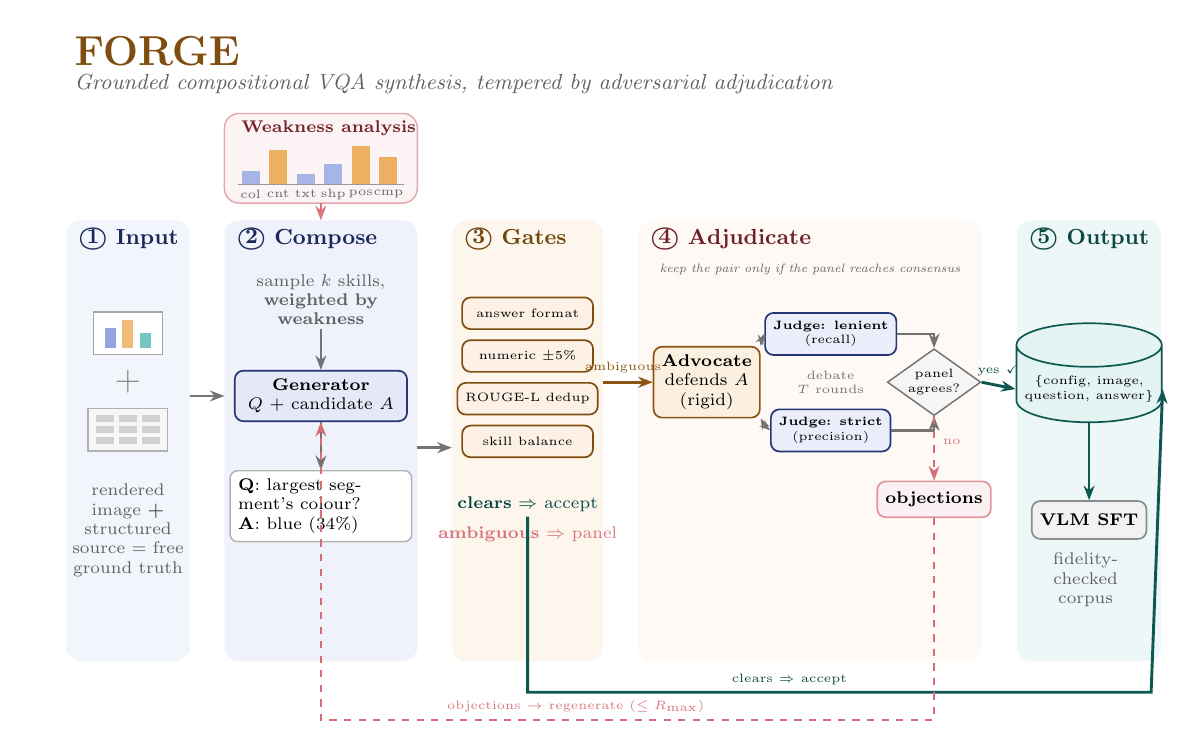
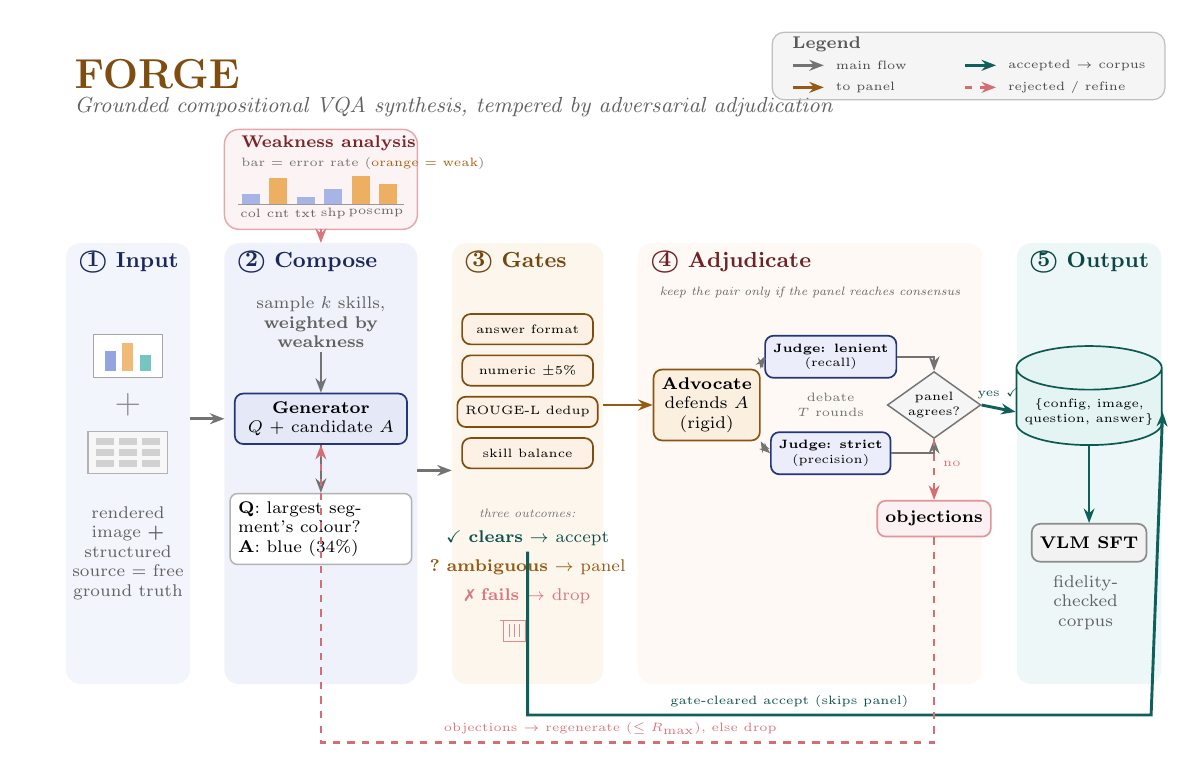
Improve FORGE figure: legend, explicit gate outcomes, cleaner adjudicate, weakness module

diff --git a/forge/docs/forge_pipeline.tex b/forge/docs/forge_pipeline.tex
@@ -2,6 +2,7 @@
 \usepackage{tikz}
 \usepackage{amsmath}
 \usepackage{amssymb}
+\usepackage{pifont}
 \usetikzlibrary{arrows.meta,positioning,backgrounds,calc,shapes.geometric}
 \begin{document}
 \definecolor{ta}{RGB}{60,90,200}
@@ -16,8 +17,8 @@
   box/.style={draw, rounded corners=3.5pt, line width=0.7pt, align=center, font=\scriptsize},
   jbox/.style={draw, rounded corners=3.5pt, line width=0.7pt, align=center, font=\tiny},
   arr/.style={-{Stealth[length=6pt]}, line width=1.2pt, color=black!55},
-  garr/.style={-{Stealth[length=6pt]}, line width=1.2pt, color=tc!55!black},
-  aarr/.style={-{Stealth[length=6pt]}, line width=1.2pt, color=tb!60!black},
+  garr/.style={-{Stealth[length=6pt]}, line width=1.2pt, color=tc!60!black},
+  aarr/.style={-{Stealth[length=6pt]}, line width=1.2pt, color=tb!65!black},
   rarr/.style={-{Stealth[length=6pt]}, line width=1pt, color=td!75, dashed},
   deb/.style={{Stealth[length=4.5pt]}-{Stealth[length=4.5pt]}, line width=0.8pt, color=black!55},
 ]
@@ -32,22 +33,36 @@
      \fill[black!18] (#1+0.11+\c*0.34,#2+0.10+\r*0.16) rectangle ++(0.26,0.10);}}}
 \newcommand{\panel}[5]{\begin{scope}[on background layer]
   \fill[#5,rounded corners=6pt] (#1,#2) rectangle (#3,#4);\end{scope}}
+\newcommand{\bin}[2]{% tiny discard bin at x,y (0.34 x 0.34)
+  \draw[td!60,line width=0.6pt] (#1,#2) -- (#1,#2-0.30) -- (#1+0.32,#2-0.30) -- (#1+0.32,#2);
+  \draw[td!60,line width=0.6pt] (#1-0.05,#2) -- (#1+0.37,#2);
+  \foreach \k in {0.09,0.16,0.23}{\draw[td!60,line width=0.4pt] (#1+\k,#2-0.05)--(#1+\k,#2-0.24);}}
 
 % ===== title =====
 \node[font=\LARGE\bfseries,text=tb!55!black,anchor=west] at (0,9.35) {FORGE};
 \node[font=\small\itshape,text=black!62,anchor=west] at (0,8.88)
   {Grounded compositional VQA synthesis, tempered by adversarial adjudication};
 
+% ===== legend (top-right, above the subtitle) =====
+\begin{scope}[on background layer]\fill[black!4,rounded corners=5pt] (10.25,8.98) rectangle (15.95,9.96);\end{scope}
+\draw[black!25,rounded corners=5pt,line width=0.5pt] (10.25,8.98) rectangle (15.95,9.96);
+\node[font=\scriptsize\bfseries,text=black!65,anchor=west] at (10.42,9.78){Legend};
+\draw[arr,line width=1pt] (10.55,9.48)--(11.0,9.48); \node[font=\tiny,anchor=west,text=black!70] at (11.05,9.48){main flow};
+\draw[aarr,line width=1pt] (10.55,9.16)--(11.0,9.16); \node[font=\tiny,anchor=west,text=black!70] at (11.05,9.16){to panel};
+\draw[garr,line width=1pt] (13.05,9.48)--(13.5,9.48); \node[font=\tiny,anchor=west,text=black!70] at (13.55,9.48){accepted $\to$ corpus};
+\draw[rarr,line width=1pt] (13.05,9.16)--(13.5,9.16); \node[font=\tiny,anchor=west,text=black!70] at (13.55,9.16){rejected / refine};
+
 % ===== separate WEAKNESS ANALYSIS module (feeds Compose) =====
-\begin{scope}[on background layer]\fill[td!6,rounded corners=6pt] (2.3,7.15) rectangle (5.1,8.45);\end{scope}
-\draw[td!45,rounded corners=6pt,line width=0.6pt] (2.3,7.15) rectangle (5.1,8.45);
-\node[font=\scriptsize\bfseries,text=td!60!black,anchor=west] at (2.42,8.24){Weakness analysis};
-\def\bx{2.55}\def\bby{7.42}
-\foreach \i/\h/\w/\lab in {0/0.20/0/col,1/0.50/1/cnt,2/0.15/0/txt,3/0.30/0/shp,4/0.56/1/pos,5/0.40/1/cmp}{
+\begin{scope}[on background layer]\fill[td!6,rounded corners=6pt] (2.3,7.10) rectangle (5.1,8.55);\end{scope}
+\draw[td!45,rounded corners=6pt,line width=0.6pt] (2.3,7.10) rectangle (5.1,8.55);
+\node[font=\scriptsize\bfseries,text=td!60!black,anchor=west] at (2.42,8.35){Weakness analysis};
+\node[font=\tiny,text=black!55,anchor=west] at (2.42,8.06){bar $=$ error rate (\textcolor{tb!70!black}{orange $=$ weak})};
+\def\bx{2.55}\def\bby{7.46}
+\foreach \i/\h/\w/\lab in {0/0.15/0/col,1/0.38/1/cnt,2/0.11/0/txt,3/0.23/0/shp,4/0.42/1/pos,5/0.30/1/cmp}{
   \pgfmathsetmacro\xx{\bx+\i*0.40}
   \ifnum\w=1 \fill[tb!70] (\xx,\bby) rectangle ++(0.26,\h);
   \else \fill[ta!45] (\xx,\bby) rectangle ++(0.26,\h);\fi
-  \node[font=\tiny,text=black!60] at (\xx+0.13,\bby-0.14){\lab};}
+  \node[font=\tiny,text=black!60] at (\xx+0.13,\bby-0.13){\lab};}
 \draw[black!40,line width=0.5pt] (\bx-0.05,\bby) -- (\bx+2.35,\bby);
 
 % ===== main pipeline panels =====
@@ -62,8 +77,8 @@
 \node[bt,text=td!55!black] at (8.36,6.62){\textcircled{4} Adjudicate};
 \node[bt,text=tc!45!black] at (13.86,6.62){\textcircled{5} Output};
 
-% weakness module -> compose (down arrow: biases the skill sampling)
-\draw[-{Stealth[length=6pt]},line width=1.1pt,color=td!70] (3.7,7.15) -- (3.7,6.9);
+% weakness -> compose
+\draw[-{Stealth[length=6pt]},line width=1.1pt,color=td!70] (3.7,7.10) -- (3.7,6.9);
 
 % ---- (1) Input ----
 \imgicon{0.40}{4.95}
@@ -78,12 +93,15 @@
 \draw[arr,line width=0.9pt] (3.7,5.32) -- (gen.north);
 \draw[arr,line width=0.9pt] (gen.south) -- (qa.north);
 
-% ---- (3) Gates ----
+% ---- (3) Gates : three outcomes ----
 \foreach \i/\g in {0/{answer format},1/{numeric $\pm5\%$},2/{ROUGE-L dedup},3/{skill balance}}{
-  \pgfmathsetmacro\gy{5.55-\i*0.62}
-  \node[box,fill=tb!12,draw=tb!55!black,minimum width=1.9cm,minimum height=0.46cm,font=\tiny] at (6.7,\gy){\g};}
-\node[font=\scriptsize,text=tc!45!black] at (6.7,2.78){\textbf{clears} $\Rightarrow$ accept};
-\node[font=\scriptsize,text=td!70] at (6.7,2.34){\textbf{ambiguous} $\Rightarrow$ panel};
+  \pgfmathsetmacro\gy{5.65-\i*0.60}
+  \node[box,fill=tb!12,draw=tb!55!black,minimum width=1.9cm,minimum height=0.44cm,font=\tiny] at (6.7,\gy){\g};}
+\node[font=\tiny,text=black!55] at (6.7,2.98){\textit{three outcomes:}};
+\node[font=\scriptsize,text=tc!50!black] at (6.7,2.62){\checkmark~\textbf{clears} $\to$ accept};
+\node[font=\scriptsize,text=tb!65!black] at (6.7,2.20){\textbf{?}~\textbf{ambiguous} $\to$ panel};
+\node[font=\scriptsize,text=td!70] at (6.7,1.78){\ding{55}~\textbf{fails} $\to$ drop};
+\bin{6.35}{1.42}
 
 % ---- (4) Adjudicate ----
 \node[font=\tiny\itshape,text=black!60,align=center,text width=4.6cm] at (10.8,6.18){keep the pair only if the panel reaches consensus};
@@ -94,7 +112,7 @@
 \draw[deb] (adv.south east) to[bend right=10] (jp.west);
 \node[font=\tiny,text=black!55,align=center] at (11.10,4.55){debate\\ $T$ rounds};
 \node[diamond,aspect=1.4,draw=black!55,fill=black!4,line width=0.6pt,font=\tiny,align=center,inner sep=0.5pt] (cons) at (12.60,4.55){panel\\ agrees?};
-\node[box,fill=td!7,draw=td!55,minimum width=1.4cm,minimum height=0.52cm] (obj) at (12.60,2.85){\textbf{objections}};
+\node[box,fill=td!7,draw=td!55,minimum width=1.4cm,minimum height=0.52cm] (obj) at (12.60,2.9){\textbf{objections}};
 \draw[arr,line width=0.9pt] (jr.east) -| (cons.north);
 \draw[arr,line width=0.9pt] (jp.east) -| (cons.south);
 \draw[rarr,line width=0.9pt] (cons.south) -- node[right,font=\tiny,text=td!70,pos=0.4]{no} (obj.north);
@@ -109,13 +127,13 @@
 % ===== inter-stage flow =====
 \draw[arr] (1.8,4.35) -- (2.3,4.35);
 \draw[arr] (5.1,3.6) -- (5.6,3.6);
-\draw[aarr] (7.8,4.55) -- node[above,font=\tiny,text=tb!60!black,pos=0.4]{ambiguous} (adv.west);
-\draw[garr] (cons.east) -- node[above,font=\tiny,text=tc!45!black]{yes~\checkmark} (db.west);
-% green "clears" bypass under the panels: gates -> output cylinder (enter from the right)
-\draw[garr] (6.7,2.60) -- (6.7,0.05) -- (15.75,0.05) -- (db.east);
-\node[font=\tiny,text=tc!45!black] at (10.5,0.24){clears $\Rightarrow$ accept};
-% red refine loop below everything: objections -> generator
+\draw[aarr] (7.8,4.55) -- (adv.west);
+\draw[garr] (cons.east) -- node[above,font=\tiny,text=tc!50!black]{yes~\checkmark} (db.west);
+% gate-cleared accept: bypasses the panel, straight to the corpus (enter cylinder from the right)
+\draw[garr] (6.7,2.42) -- (6.7,0.05) -- (15.75,0.05) -- (db.east);
+\node[font=\tiny,text=tc!50!black] at (10.5,0.24){gate-cleared accept (skips panel)};
+% refine loop: objections -> generator; discarded after R_max
 \draw[rarr] (obj.south) -- (12.60,-0.35) -- (3.7,-0.35) -- (gen.south);
-\node[font=\tiny,text=td!70] at (7.4,-0.15){objections $\rightarrow$ regenerate ($\le R_{\max}$)};
+\node[font=\tiny,text=td!70] at (7.9,-0.15){objections $\rightarrow$ regenerate ($\le R_{\max}$), else drop};
 \end{tikzpicture}
 \end{document}